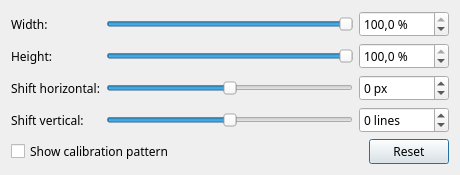
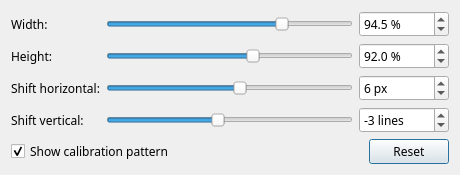
UI: no default MiSTer IP; README: CRT calibration section, new screenshots
The host field starts empty with a placeholder instead of a fixed private address, and Play
asks for the IP when it is missing. README gets a step-by-step CRT calibration section with
the dialog, the test pattern and a simulated before/after view; screenshots regenerated in
the offscreen harness with neutral demo tracks.

diff --git a/mister-ui/main.cpp b/mister-ui/main.cpp
@@ -207,6 +207,7 @@ public:
         for (const QString& f : m_set.value("playlist").toStringList()) addLocal(f);
 
         m_host = new QLineEdit(qEnvironmentVariable("MISTER_HOST", m_set.value("host").toString()));
+        m_host->setPlaceholderText("IP address of the MiSTer");
         m_modeline = new QComboBox;
         m_modeline->addItem("auto (match source)");
         for (const char* k : kModelineKeys) m_modeline->addItem(k);
@@ -1481,6 +1482,7 @@ private:
             m_file->clear();
         }
         if (m_list->count() == 0) return;
+        if (m_host->text().trimmed().isEmpty()) { m_status->setText("Enter the MiSTer IP first"); return; }
         savePlaylist();
         m_set.setValue("host", m_host->text());
         m_set.setValue("modeline", m_modeline->currentText());

diff --git a/README.md b/README.md
@@ -21,12 +21,13 @@ on the TV.
 3. [Installation](#installation)
 4. [First start](#first-start)
 5. [Using the player](#using-the-player)
-6. [Features](#features)
-7. [Screenshots](#screenshots)
-8. [How it works](#how-it-works)
-9. [Repository layout](#repository-layout)
-10. [FAQ](#faq)
-11. [Documentation, credits, license](#documentation-credits-license)
+6. [CRT calibration](#crt-calibration)
+7. [Features](#features)
+8. [Screenshots](#screenshots)
+9. [How it works](#how-it-works)
+10. [Repository layout](#repository-layout)
+11. [FAQ](#faq)
+12. [Documentation, credits, license](#documentation-credits-license)
 
 ## Requirements
 
@@ -184,6 +185,37 @@ the receiver starts with misterMPV and stops when you close it; in Jellyfin choo
 - Subtitle position: the shim itself only knows top / middle / bottom and applies it on every file, so casts use the
   nearest of those.
 
+## CRT calibration
+
+Most CRTs overscan: the edges of the picture sit behind the bezel, and the visible area is often a little off centre.
+The calibration scales and shifts the picture inside the 15 kHz raster so that all of it is visible. The values are
+stored and apply to everything misterMPV plays, including Jellyfin casts.
+
+1. Load any file and start playing it (the pattern replaces the video of a running file).
+2. Open the **Picture** section and press **CRT calibration…**.
+
+   ![Picture section with the CRT calibration button](mister-ui/screenshots/picture.png)
+
+3. Tick **Show calibration pattern**. The CRT now shows a grid with a circle, a white frame at the picture edge and
+   two inner frames for the 95 % (yellow) and 90 % (cyan) safe areas.
+
+   ![Calibration test pattern](mister-ui/screenshots/calibration-pattern.png)
+
+4. Reduce **Width** and **Height** (80-100 %) until the white frame is visible on all four sides, then use
+   **Shift horizontal** (pixels) and **Shift vertical** (lines) to centre it. The circle should look round. In
+   interlaced modes the vertical shift counts field lines.
+
+   ![CRT calibration dialog](mister-ui/screenshots/calibration.png)
+
+5. Close the dialog (the pattern switches off) or untick the box. **Reset** returns to 100 % and no shift.
+
+What this looks like on a set that overscans and sits slightly to the left (simulated from the real test pattern):
+
+![Calibration before and after, simulated CRT view](mister-ui/screenshots/calibration-crt.png)
+
+Subtitles and the OSD are drawn inside the calibrated picture, so they do not end up behind the bezel either. Without the
+window: `--mister-calibrate=yes` shows the pattern, the size and shift options are listed in [MISTER.md](MISTER.md).
+
 ## Features
 
 - Output to the CRT: automatic modeline (25/50 fps to the 50 Hz modes, everything else 60 Hz), TFF/BFF field order,
@@ -211,10 +243,7 @@ the receiver starts with misterMPV and stops when you close it; in Jellyfin choo
 | ![Row menu](mister-ui/screenshots/menu-context.png) ![Sort menu](mister-ui/screenshots/menu-sort.png) | ![Status lamp](mister-ui/screenshots/leds.png) |
 | Right-click menu and sort menu | Status lamp: stopped, starting, playing, paused |
 
-The calibration test pattern as it appears on the CRT (white edge = picture border, yellow and cyan = 95 % and 90 %
-safe areas):
-
-![Calibration test pattern](mister-ui/screenshots/calibration-pattern.png)
+The test pattern and a before/after view are in [CRT calibration](#crt-calibration).
 
 ## How it works
 
@@ -317,12 +346,13 @@ the few hook lines listed under "Repository layout".
 ### License
 
 misterMPV is free software under the GPL. mpv is GPLv2 or later (libmpv LGPLv2.1 or later); the vendored
-`groovy-mister-zig` and the NLC codec are GPL as well. See `LICENSE.GPL`, `LICENSE.LGPL`, `Copyright` and
-`third_party/groovy-mister-zig/LICENSE`.
+`groovy-mister-zig` and the NLC codec (from verbst/Groovy_MiSTer) are GPL-2.0, the vendored `zig-lz4` is MIT. See
+`LICENSE.GPL`, `LICENSE.LGPL`, `Copyright`, `third_party/groovy-mister-zig/LICENSE` and
+`third_party/groovy-mister-zig/zig-pkg/lz4-…/LICENSE`.
 
 ### Credits
 
 Built on mpv, psakhis' Groovy_MiSTer, verbst's GroovyNLC core and NLC codec, iequalshane's MiSTerCast, dylan's
 groovy-mister-zig, idio-sync's MiSTer_GroovyRelay (flicker filter and calibration ideas) and jedisct1's zig-lz4, with
-FFmpeg, libass, LuaJIT, Qt, Zig and yt-dlp. Full list: [CREDITS.md](CREDITS.md). "Winamp" is a trademark of its owner;
+FFmpeg, libass, LuaJIT, Qt, Zig, yt-dlp, and jellyfin-mpv-shim / Jellyfin for the receiver. Full list: [CREDITS.md](CREDITS.md). "Winamp" is a trademark of its owner;
 this project is only inspired by its layout.
